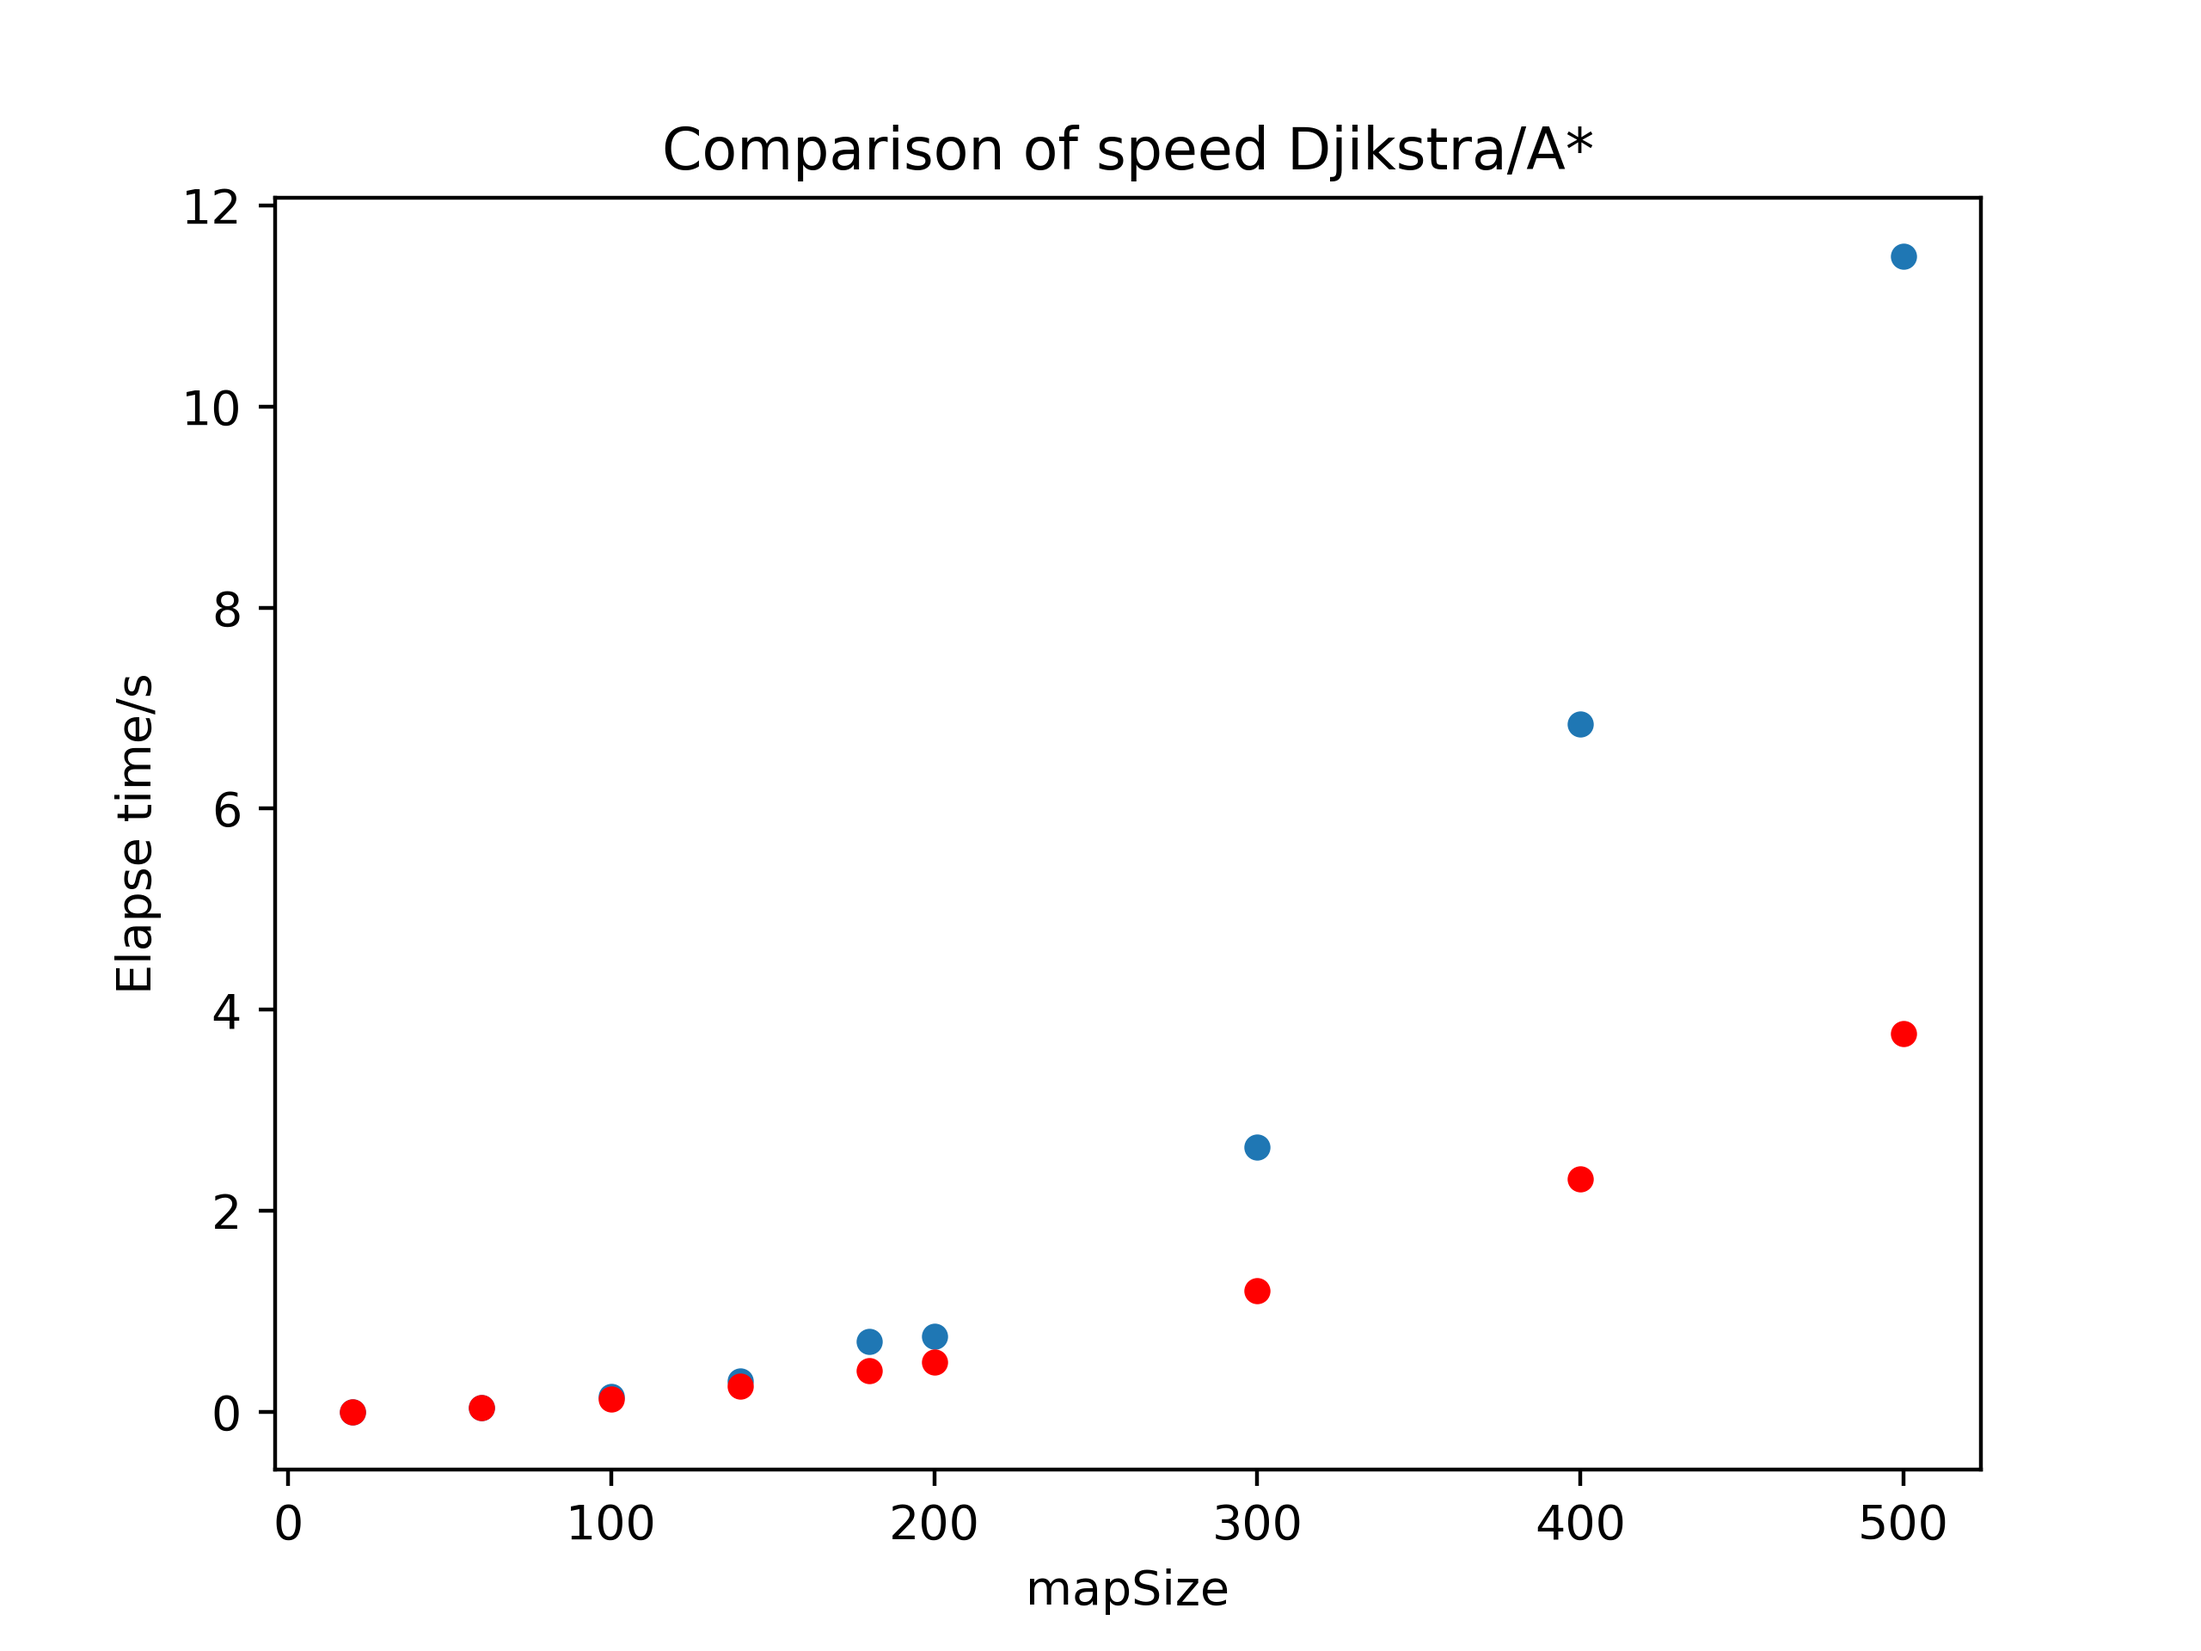
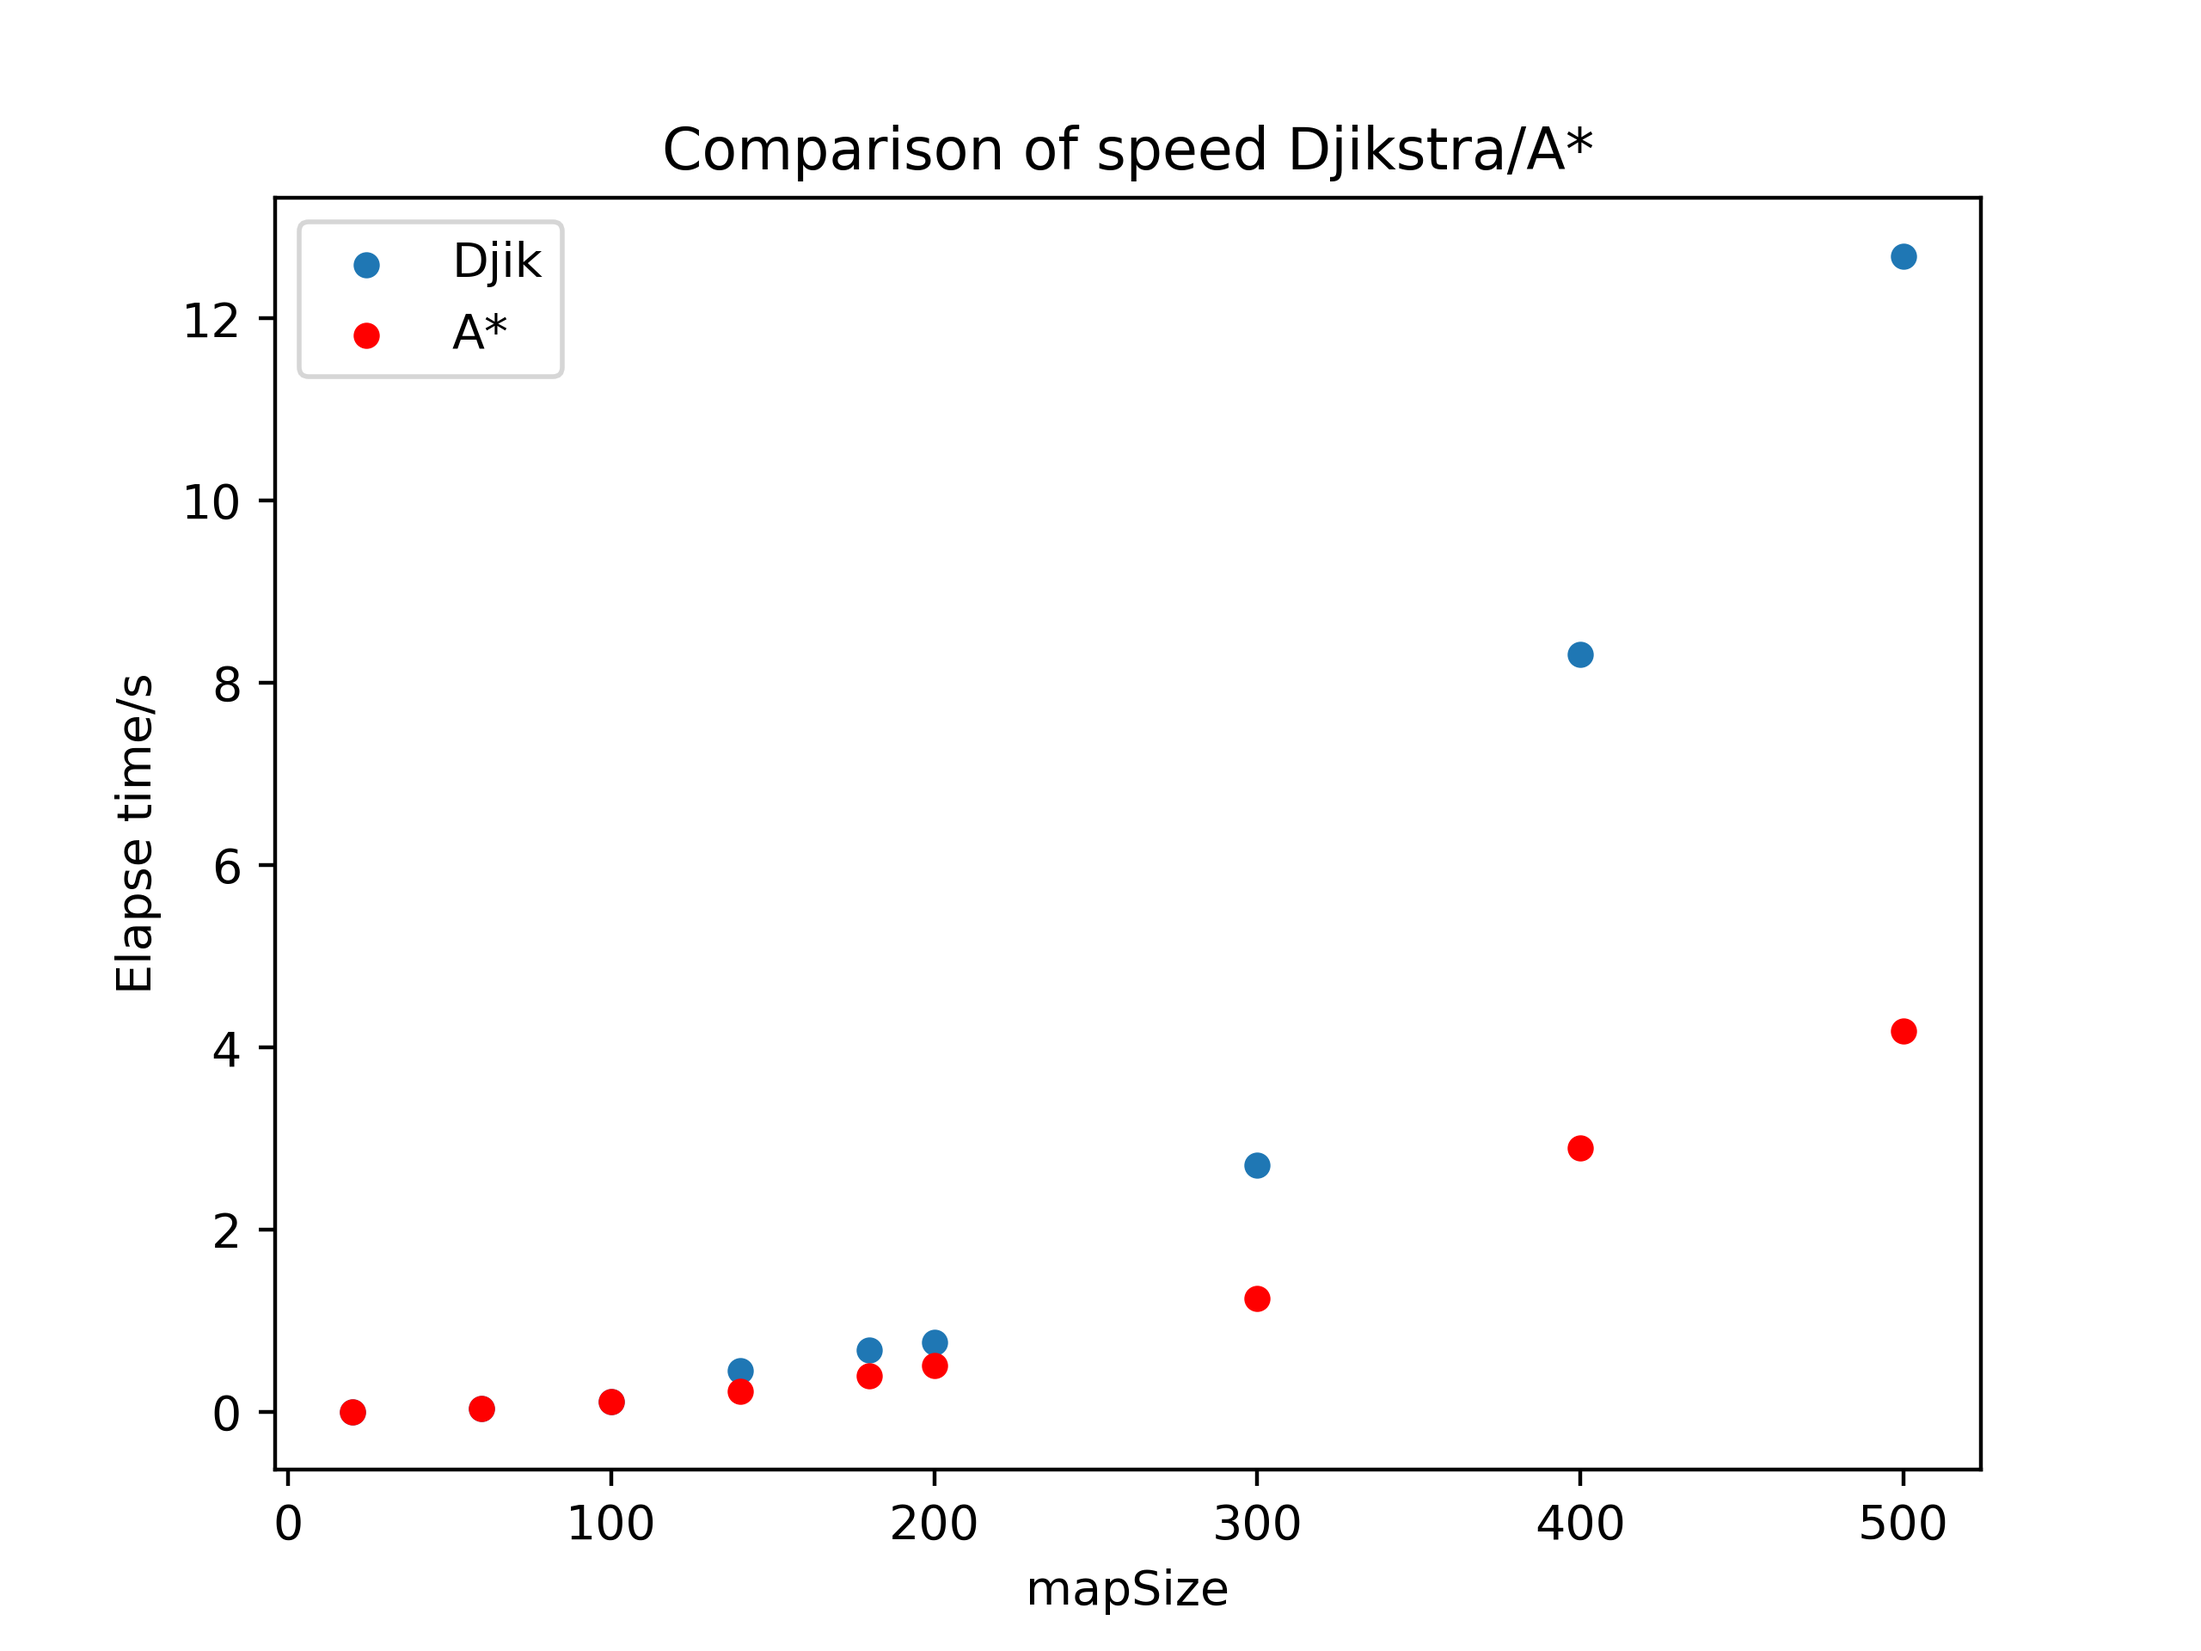
legends

diff --git a/dji_astar_speed_compare.py b/dji_astar_speed_compare.py
@@ -83,17 +83,16 @@ def dji_astar_elapse_time(size_array):
 if __name__ == "__main__":
     size_array = [s for s in range(20, 200, 40)]
     size_array += [200, 300, 400, 500]
-    # print(size_array)
-
+    
     df = dji_astar_elapse_time(size_array)
     print(df)
 
     ax = plt.gca()
-
     df.plot(kind='scatter', x='mapSize', y='Djik', ax=ax)
     df.plot(kind='scatter', x='mapSize', y='A*', color='red', ax=ax)
     
     plt.ylabel('Elapse time/s')
     plt.title("Comparison of speed Djikstra/A*")
+    plt.legend(['Djik', 'A*'])
     plt.savefig('comp_dji_astar.png', dpi=400)
     plt.show()

diff --git a/README.md b/README.md
@@ -1,0 +1,6 @@
+### Basic pf using NetworkX Python
+
+```python
+import networkx as nx
+
+```
